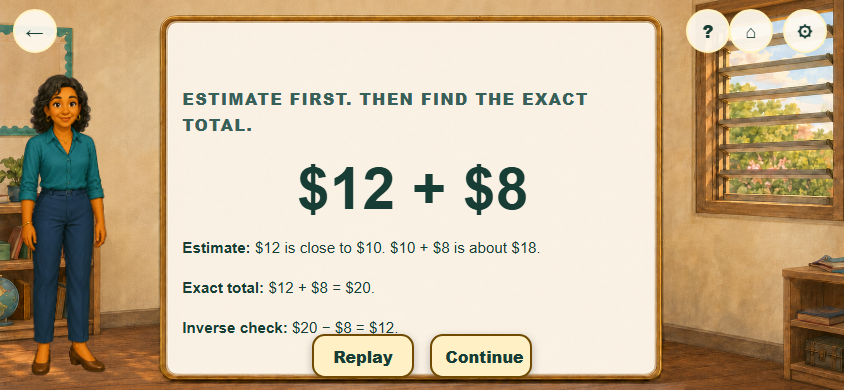
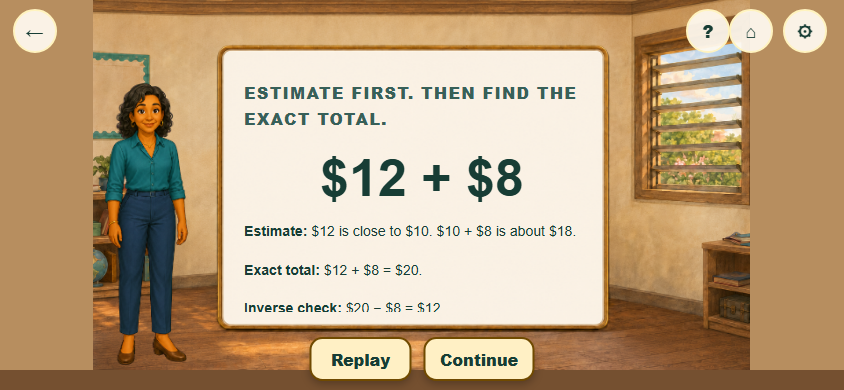
Place mobile lesson controls below whiteboard

diff --git a/app/arouca-groove/production.css b/app/arouca-groove/production.css
@@ -34,6 +34,7 @@ button:focus-visible,a:focus-visible,input:focus-visible,.journey-map-scroll:foc
 
 /* Real controls sit over blank environment templates as independent DOM layers. */
 .template-controls button,.mission-choice-actions button,.register-controls button,.results-action button{min-width:44px;min-height:44px;border:2px solid #704a00;border-radius:.8rem;background:#fff0c5;color:#173d35;font-weight:900;cursor:pointer}.template-controls .primary,.mission-choice-actions .primary,.register-controls .primary,.results-action .primary{background:#ffb51b;color:#102f2b}.template-controls button:disabled,.register-controls button:disabled{background:#cfd4d1;color:#56605d;cursor:not-allowed}
+.teacher-template-controls{position:absolute;z-index:12;inset:0;pointer-events:none}.teacher-template-controls button{pointer-events:auto}
 .teacher-template-controls button,.challenge-template-controls button{position:absolute;z-index:12;bottom:3%;height:7%;padding:.6rem 1.4rem;font-size:clamp(1rem,1.7vw,1.4rem);box-shadow:0 3px 8px #0004}.template-replay{left:37%;width:12%}.template-continue{right:37%;width:12%}.template-hint{left:38%;width:10%}.template-check{right:38%;width:13%}
 
 /* Dynamic Class Challenge content sits directly on the illustrated book. */
@@ -66,6 +67,7 @@ button:focus-visible,a:focus-visible,input:focus-visible,.journey-map-scroll:foc
   min-height:100dvh;overflow:hidden;background-position:center;background-size:cover
 }
 .classroom-stage>.character-ms-leela{left:var(--teacher-scene-left);bottom:var(--teacher-scene-bottom);width:auto;height:var(--teacher-scene-height);pointer-events:none}
+.teacher-whiteboard-frame{position:absolute;z-index:2;top:11.7%;left:19%;width:62%;height:77.2%;pointer-events:none}
 .approved-character-sprite{display:block;width:auto;height:100%;object-fit:contain}
 .classroom-stage>.character-ms-leela figcaption{position:absolute;width:1px;height:1px;margin:-1px;overflow:hidden;clip:rect(0,0,0,0);white-space:nowrap}
 
@@ -75,12 +77,14 @@ button:focus-visible,a:focus-visible,input:focus-visible,.journey-map-scroll:foc
 
 @media(orientation:landscape) and (max-width:900px) and (max-height:500px){
   .lesson-runner,.visual-stage{height:100dvh;min-height:0;overflow:hidden}
-  .classroom-stage{--teacher-scene-left:max(.5rem,1.5vw);--teacher-scene-bottom:2.2dvh;--teacher-scene-height:min(80dvh,312px);background-size:cover}
-  .classroom-stage .teaching-board{top:13.2%;left:19.4%;width:59%;height:74%;padding:clamp(.65rem,2.2vw,1.2rem);background:transparent;border:0;border-radius:0}
-  .classroom-stage .teaching-board h2{font-size:clamp(2.6rem,7vw,3.7rem)}
-  .classroom-stage .math-demo{font-size:clamp(.9rem,1.8vw,1rem)}
-  .teacher-template-controls button{position:absolute;bottom:3%;height:44px;padding:.35rem .8rem;font-size:1rem}
-  .template-replay{left:37%;width:12%}.template-continue{right:37%;width:12%}
+  .classroom-stage{--teacher-scene-left:calc(50% - 322px);--teacher-scene-bottom:20px;--teacher-scene-height:292px;background-color:#b78e5f;background-position:center top;background-size:auto 370px}
+  .classroom-stage::before{position:absolute;z-index:0;right:0;bottom:0;left:0;height:20px;background:#755030;content:""}
+  .classroom-stage .teacher-whiteboard-frame{top:44px;left:calc(50% - 198px);width:396px;height:285px}
+  .classroom-stage .teaching-board{top:54px;left:calc(50% - 190px);width:380px;height:258px;padding:.6rem .75rem;background:transparent;border:0;border-radius:0}
+  .classroom-stage .teaching-board h2{font-size:clamp(2.35rem,6.2vw,3.25rem)}
+  .classroom-stage .math-demo{font-size:.88rem}
+  .teacher-template-controls{position:absolute;z-index:12;top:337px;left:50%;display:flex;gap:.75rem;align-items:center;justify-content:center;width:max-content;height:44px;transform:translateX(-50%)}
+  .teacher-template-controls button{position:static;width:auto;min-width:102px;height:44px;padding:.35rem .9rem;font-size:1rem}
 }
 
 @media(max-width:760px){

diff --git a/components/production/CornerShopStages.tsx b/components/production/CornerShopStages.tsx
@@ -11,12 +11,13 @@ export function TeacherLessonStage({ lesson, onContinue }: { lesson: NonNullable
   const [replay, setReplay] = useState(0);
   return <section className="visual-stage template-stage classroom-stage" style={{ backgroundImage: `url(${CANONICAL_ASSETS.schoolInstruction.runtimePath})` }} aria-labelledby="teacher-stage-title">
     <CharacterLayer name="Ms. Leela" position="left" />
+    <div className="teacher-whiteboard-frame" aria-hidden="true" />
     <div className="teaching-board" key={replay}>
       <p className="stage-kicker">{lesson.topic}</p>
       <h2 id="teacher-stage-title">{lesson.equation}</h2>
       <div className="math-demo"><p><strong>Estimate:</strong> {lesson.estimate}</p><p><strong>Exact total:</strong> {lesson.exactTotal}</p><p><strong>Inverse check:</strong> {lesson.inverseCheck}</p></div>
     </div>
-    <div className="template-controls teacher-template-controls"><button className="template-replay" onClick={() => setReplay((value) => value + 1)}>Replay</button><button className="template-continue" onClick={onContinue}>Continue</button></div>
+    <nav className="template-controls teacher-template-controls" aria-label="Teacher lesson navigation"><button className="template-replay" onClick={() => setReplay((value) => value + 1)}>Replay</button><button className="template-continue" onClick={onContinue}>Continue</button></nav>
   </section>;
 }
 

diff --git a/tests/bridgepath.spec.ts b/tests/bridgepath.spec.ts
@@ -87,6 +87,16 @@ test("Corner Shop renders three shared-artboard market compositions", async ({ p
   await expect(page.getByRole("button", { name: "Replay" })).toBeVisible();
   await expect(page.getByRole("button", { name: "Continue" })).toBeVisible();
   await expect(page.getByRole("navigation", { name: "Lesson controls" })).toBeVisible();
+  await expect(page.getByRole("navigation", { name: "Teacher lesson navigation" })).toBeVisible();
+  if (viewport!.width === 844) {
+    const whiteboardFrameBox = await page.locator(".teacher-whiteboard-frame").boundingBox();
+    const navigationRowBox = await page.getByRole("navigation", { name: "Teacher lesson navigation" }).boundingBox();
+    expect(whiteboardFrameBox).not.toBeNull();
+    expect(navigationRowBox).not.toBeNull();
+    expect(navigationRowBox!.y).toBeGreaterThanOrEqual(whiteboardFrameBox!.y + whiteboardFrameBox!.height + 6);
+    expect(navigationRowBox!.y).toBeLessThanOrEqual(whiteboardFrameBox!.y + whiteboardFrameBox!.height + 10);
+    expect(navigationRowBox!.y + navigationRowBox!.height).toBeLessThanOrEqual(viewport!.height);
+  }
   const overlapsLessonCopy = teacherBox!.x < lessonCopyBox.right
     && teacherBox!.x + teacherBox!.width > lessonCopyBox.left
     && teacherBox!.y < lessonCopyBox.bottom

diff --git a/design/review/teacher-lesson/README.md b/design/review/teacher-lesson/README.md
@@ -8,9 +8,9 @@ The untouched 1672×941 `school-instruction-template.png` remains the classroom 
 |---|---:|---:|---|
 | 1440×900 | 21.6, 160.2, 229.1, 720 | 19.8 px | `desktop-1440x900.png` |
 | 1180×820 | 17.7, 146.0, 208.8, 656 | 18.0 px | `tablet-landscape-1180x820.png` |
-| 844×390 | 12.7, 69.4, 99.3, 312 | 8.6 px | `mobile-landscape-844x390.png` |
+| 844×390 | 100.0, 78.0, 92.9, 292 | 20 px | `mobile-landscape-844x390.png` |
 | 390×844 portrait | Gameplay is intentionally hidden | n/a | `mobile-portrait-390x844.png` |
 
-The named placement variables are `--teacher-scene-left`, `--teacher-scene-bottom` and `--teacher-scene-height`. At 844×390 they resolve from `max(.5rem, 1.5vw)`, `2.2dvh` and `min(80dvh, 312px)`. They preserve the character asset aspect ratio and respond to the classroom cover crop. At every landscape viewport, the figure is fully inside the scene, the feet meet the visible floor, the lesson copy does not intersect the character bounds and no horizontal or vertical overflow is introduced.
+The named placement variables are `--teacher-scene-left`, `--teacher-scene-bottom` and `--teacher-scene-height`. At 844×390 they resolve to `calc(50% - 322px)`, `20px` and `292px`. The measured whiteboard frame ends at y=329; the dedicated 44px navigation row begins at y=337, leaving an 8px clear gap and ending at y=381. The character, whiteboard and classroom plate retain one proportional scene composition, while the navigation remains a separate accessible HTML region. No horizontal or vertical overflow is introduced.
 
 At 390×844 the reusable gameplay shell shows the accessible HTML dialog “Turn your device sideways to continue.” The mounted gameplay subtree becomes inert and `aria-hidden`, so it is neither operable nor exposed behind the prompt. Returning to landscape removes the prompt automatically. E2E verification rotates after entering Class Challenge values and confirms the current phase and both field values survive the round trip without a reload.

diff --git a/ASSET-MANIFEST.md b/ASSET-MANIFEST.md
@@ -58,7 +58,7 @@ The untouched Scene Designer market exports are preserved under `design/approved
 
 ## Teacher Lesson composition
 
-The Teacher Lesson preserves the 1672×941 classroom plate at its native aspect ratio and renders the verified `ms-leela-maharaj-transparent.png` as a separate full-body layer. The visible figure is grounded from the scene bottom and kept left of the accessible lesson copy using the named CSS anchors `--teacher-scene-left`, `--teacher-scene-bottom` and `--teacher-scene-height`. Desktop uses a maximum 723 px figure height. The compact mobile-landscape rule (`orientation: landscape`, maximum width 900 px and maximum height 500 px) uses a 312 px maximum figure height at 844×390. Mobile portrait at up to 600 px wide does not compress the scene; the reusable gameplay shell presents an accessible rotate-device prompt and leaves the mounted lesson state intact. The source artwork, whiteboard, lesson text, controls and HUD remain independent and unchanged.
+The Teacher Lesson preserves the 1672×941 classroom plate at its native aspect ratio and renders the verified `ms-leela-maharaj-transparent.png` as a separate full-body layer. The visible figure is grounded from the scene bottom and kept left of the accessible lesson copy using the named CSS anchors `--teacher-scene-left`, `--teacher-scene-bottom` and `--teacher-scene-height`. Desktop uses a maximum 723 px figure height. At 844×390 the proportional classroom plate is 370 px high, Ms. Leela is 292 px high on the same y=370 ground plane, the measured whiteboard frame ends at y=329, and the separate 44 px HTML navigation row begins at y=337. Mobile portrait at up to 600 px wide does not compress the scene; the reusable gameplay shell presents an accessible rotate-device prompt and leaves the mounted lesson state intact. The source artwork, whiteboard, lesson text, controls and HUD remain independent and unchanged.
 
 ## Shared market compositions
 
